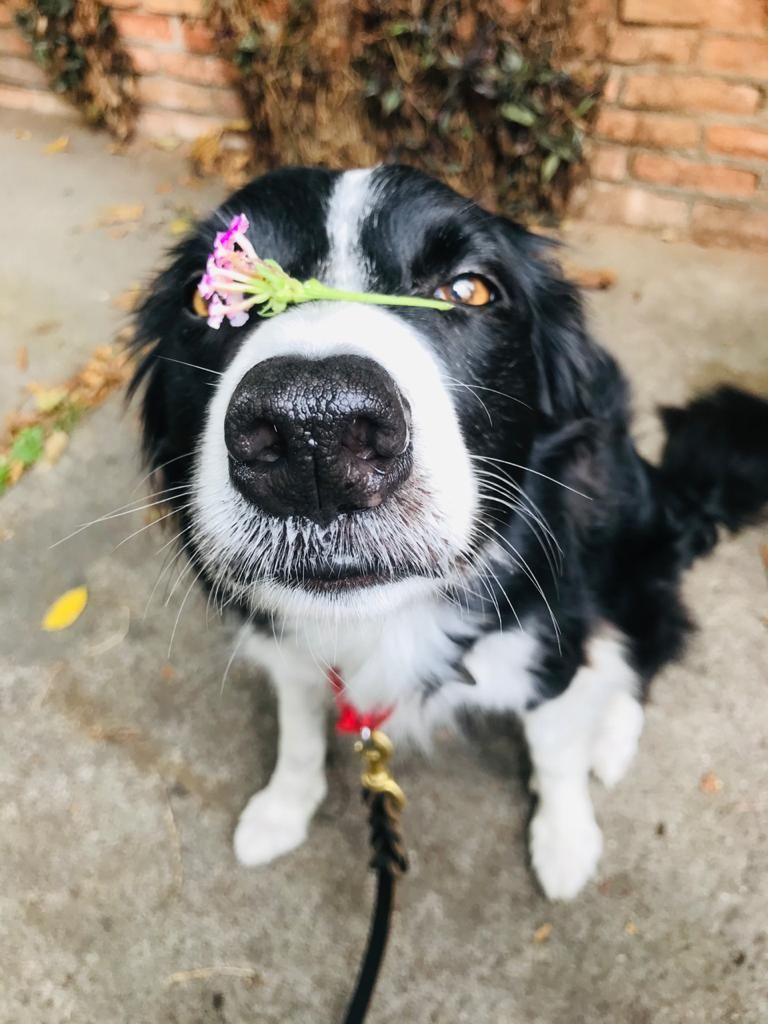
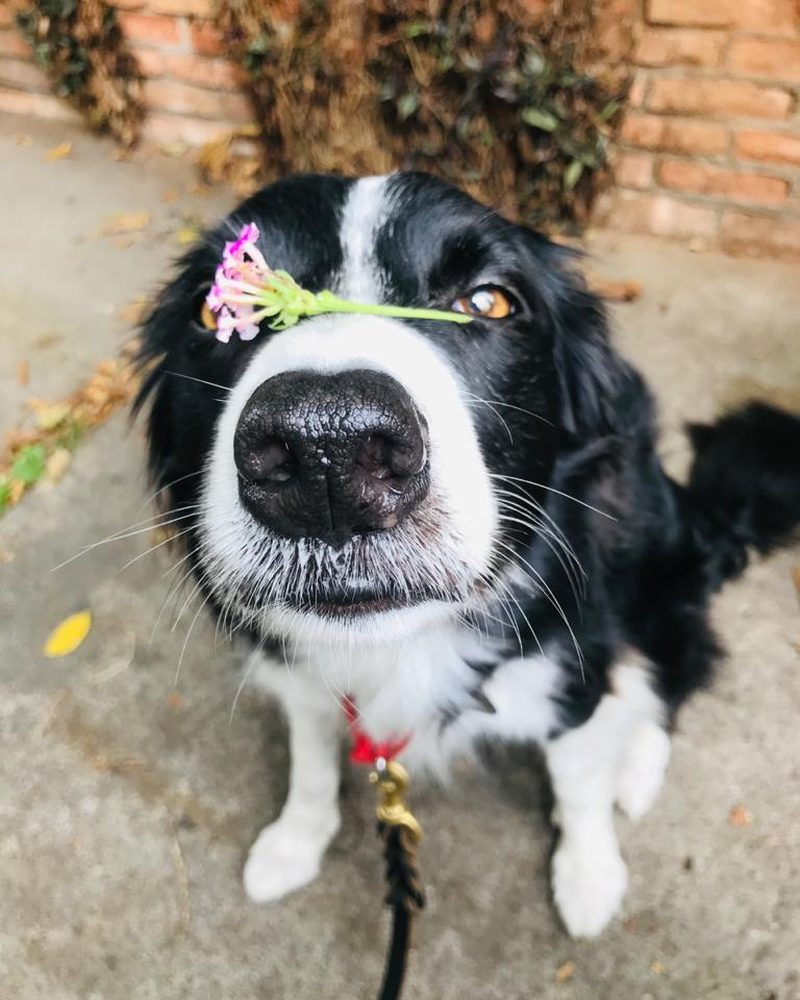
Add files via upload

diff --git a/index.html b/index.html
@@ -56,7 +56,6 @@
     {"@type":"Place","name":"Vila Romana, São Paulo"},
     {"@type":"Place","name":"Lapa, São Paulo"}
   ],
-  "aggregateRating":{"@type":"AggregateRating","ratingValue":"4.7","reviewCount":"144"},
   "knowsAbout":["Banho e tosa","Estética animal","Atendimento veterinário","Rações e acessórios","Entrega de produtos pet"],
   "sameAs":[
     "https://www.instagram.com/azzurrapetshop/",
@@ -105,7 +104,7 @@
         <a href="banho-tosa-pompeia.html" class="btn btn--ghost btn--lg" style="border-color:#fff;color:#fff">Ver serviços</a>
       </div>
       <div class="hero-badges">
-        <div class="hero-badge"><span class="stars">★★★★★</span> <strong>4,7</strong> · 144 avaliações</div>
+        <div class="hero-badge">🐾 Desde 2016 na Pompeia</div>
         <div class="hero-badge">🏥 Veterinária no local</div>
         <div class="hero-badge">🚚 Entrega na região</div>
       </div>
@@ -185,13 +184,6 @@
 <section class="section">
   <div class="container">
     <div class="text-center">
-      <div class="rating-hero">
-        <span class="rating-num">4,7</span>
-        <div style="text-align:left">
-          <span class="stars" style="font-size:1.3rem">★★★★★</span>
-          <p style="color:var(--cinza);font-size:.95rem">Baseado em 144 avaliações no Google</p>
-        </div>
-      </div>
       <span class="eyebrow">O que dizem os tutores</span>
       <h2 class="h-sec">Quem confia, recomenda de olhos fechados</h2>
     </div>

diff --git a/css/style.css b/css/style.css
@@ -66,7 +66,7 @@ h1,h2,h3,h4{font-family:var(--ff-display);font-weight:700;line-height:1.18;color
 .hero-badge{display:flex;align-items:center;gap:9px;font-size:.95rem;color:rgba(255,255,255,.95)}
 .hero-badge strong{font-family:var(--ff-display)}
 .hero-img{position:relative;z-index:2}
-.hero-img img{border-radius:24px;box-shadow:var(--shadow-lg);border:5px solid rgba(255,255,255,.18)}
+.hero-img img{border-radius:24px;box-shadow:var(--shadow-lg);border:5px solid rgba(255,255,255,.18);object-fit:cover;object-position:top center}
 .stars{color:#FFC83D;letter-spacing:2px}
 
 /* Cards de serviço */